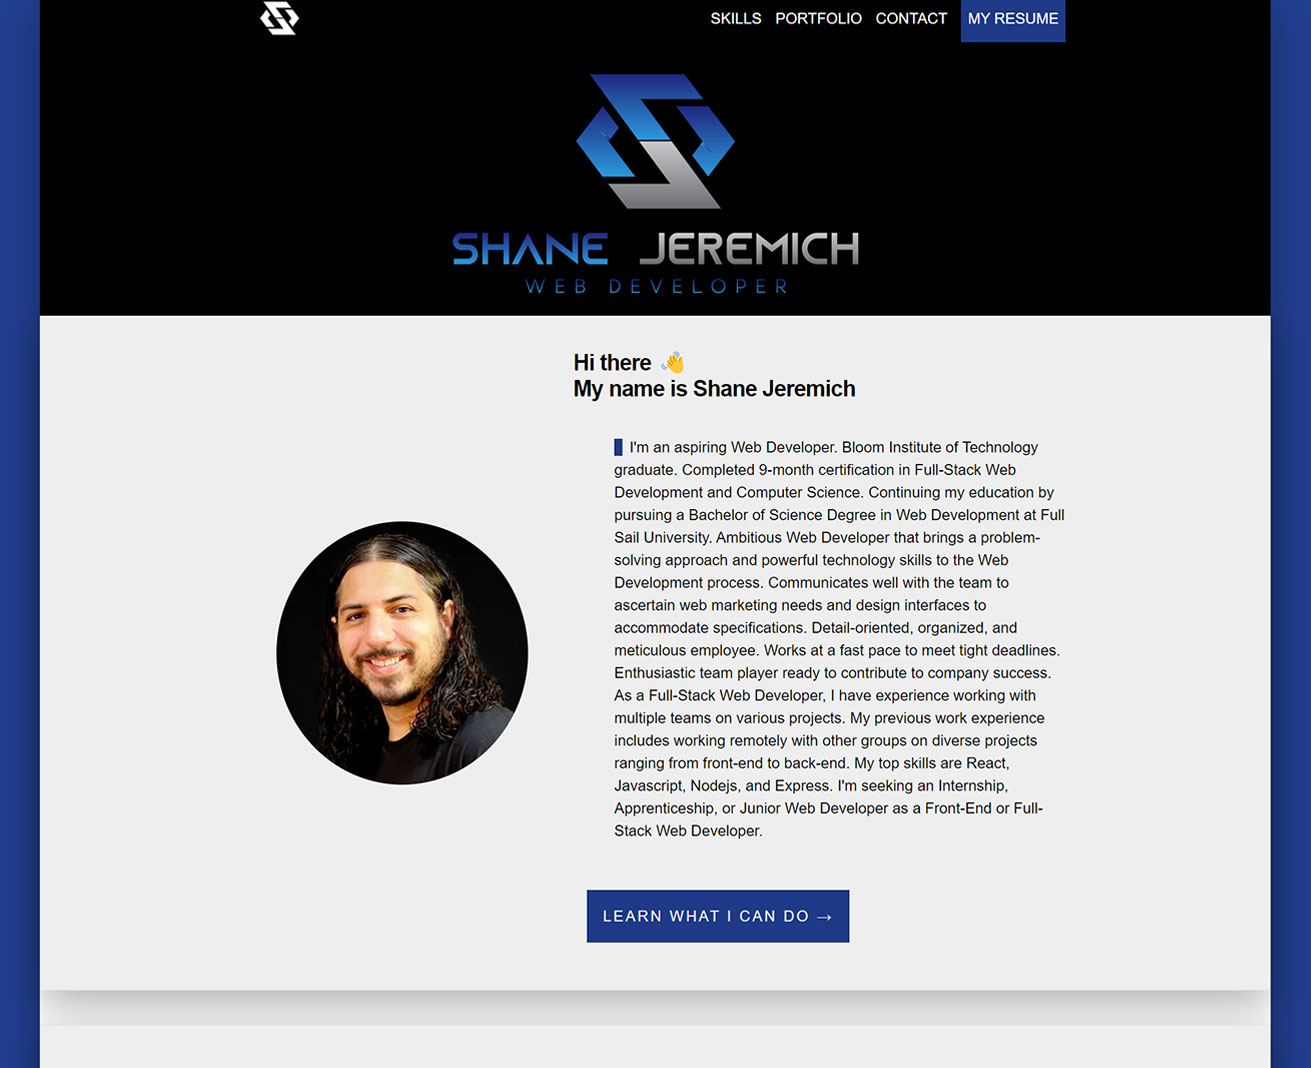
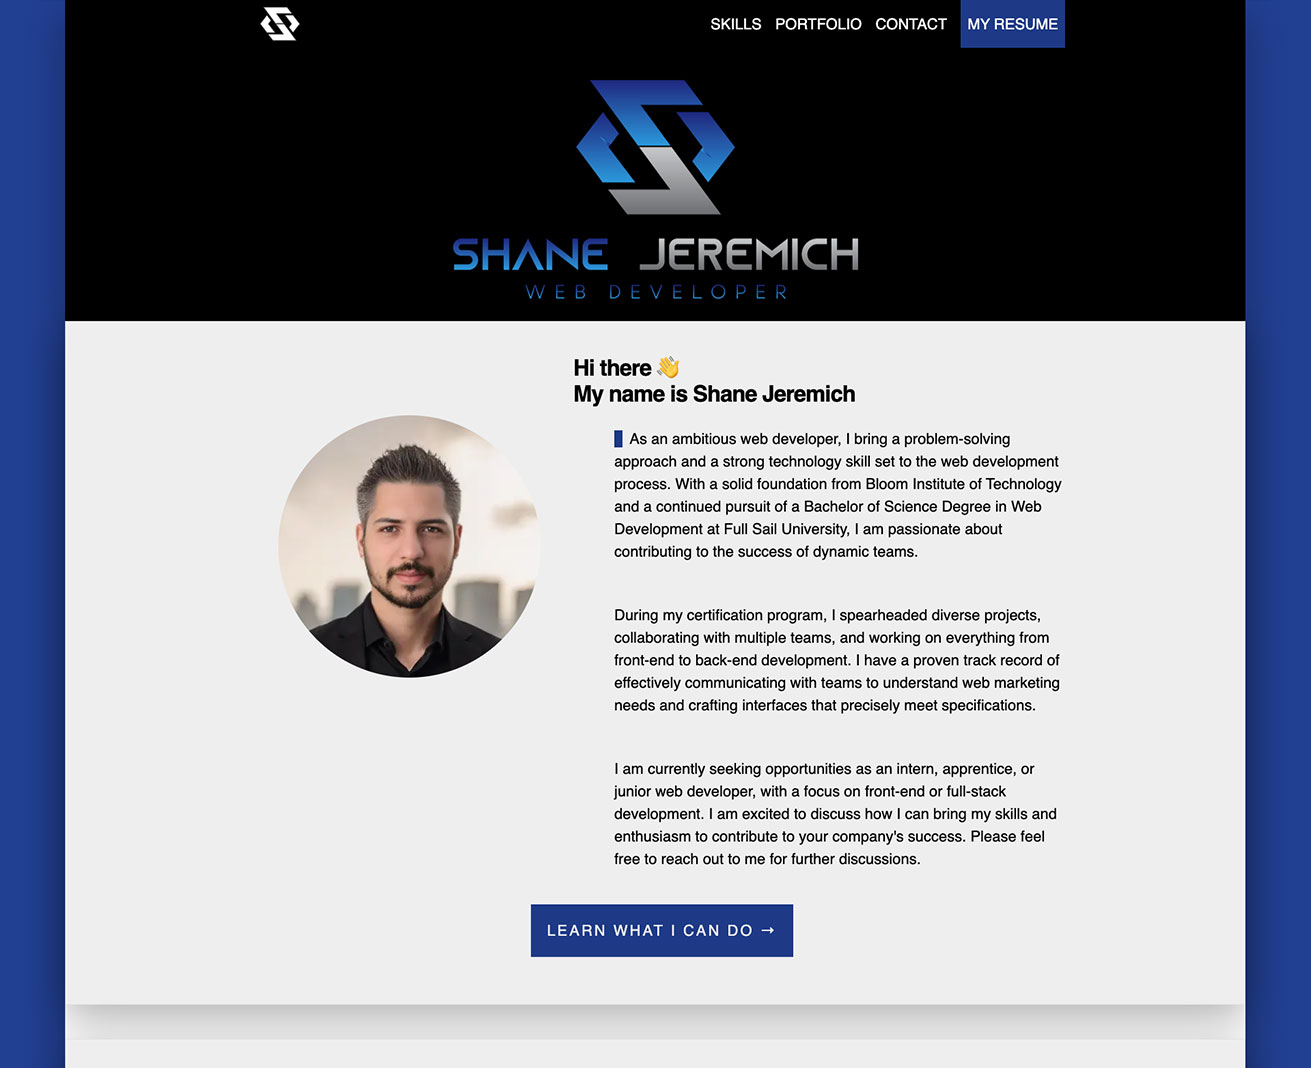
chore(docs): update README.md with new profile picture and minor edits
Updated README.md with the new profile picture and made minor edits for clarity and accuracy.

diff --git a/README.md b/README.md
@@ -4,7 +4,7 @@ You can find my portfolio deployed at [www.shanejeremich.com](https://www.shanej
 
 ## Overview
 
-This is my portfolio website.  This will be where I house my projects, current skills, my resume, and contact form to reach me.  Future updates will include my work for prospective clients, more projects, and articles from Medium I've published.
+This is my portfolio website. This will be where I house my projects, current skills, my resume, and contact form to reach me. Future updates will include my work for prospective clients, more projects, and articles from Medium I've published.
 
 <br>
 
@@ -14,10 +14,10 @@ This is my portfolio website.  This will be where I house my projects, current s
 
 ## Contributors
 
-|                                        [Shane Jeremich](https://github.com/sjeremich23)                                        |
+|                                       [Shane Jeremich](https://github.com/shanejeremich)                                       |
 | :----------------------------------------------------------------------------------------------------------------------------: |
-|                     [<img src="public/images/shane.png" width = "200" />](https://github.com/sjeremich23)                      |
-|                    [<img src="https://github.com/favicon.ico" width="15"> ](https://github.com/sjeremich23)                    |
+|      [<img src="https://avatars.githubusercontent.com/u/51142646?v=4" width = "200" />](https://github.com/shanejeremich)      |
+|                   [<img src="https://github.com/favicon.ico" width="15"> ](https://github.com/shanejeremich)                   |
 | [ <img src="https://static.licdn.com/sc/h/al2o9zrvru7aqj8e1x2rzsrca" width="15"> ](https://www.linkedin.com/in/shanejeremich/) |
 
 <br>
@@ -37,9 +37,7 @@ This is my portfolio website.  This will be where I house my projects, current s
 - CSS grid & flexbox
 - Live contact form to reach me via email
 
-### Front end deployed to `www.shanejeremich.com`
-
-> [www.shanejeremich.com](https://www.shanejeremich.com)
+### Front end deployed to [`www.shanejeremich.com`](https://www.shanejeremich.com)
 
 # APIs
 
